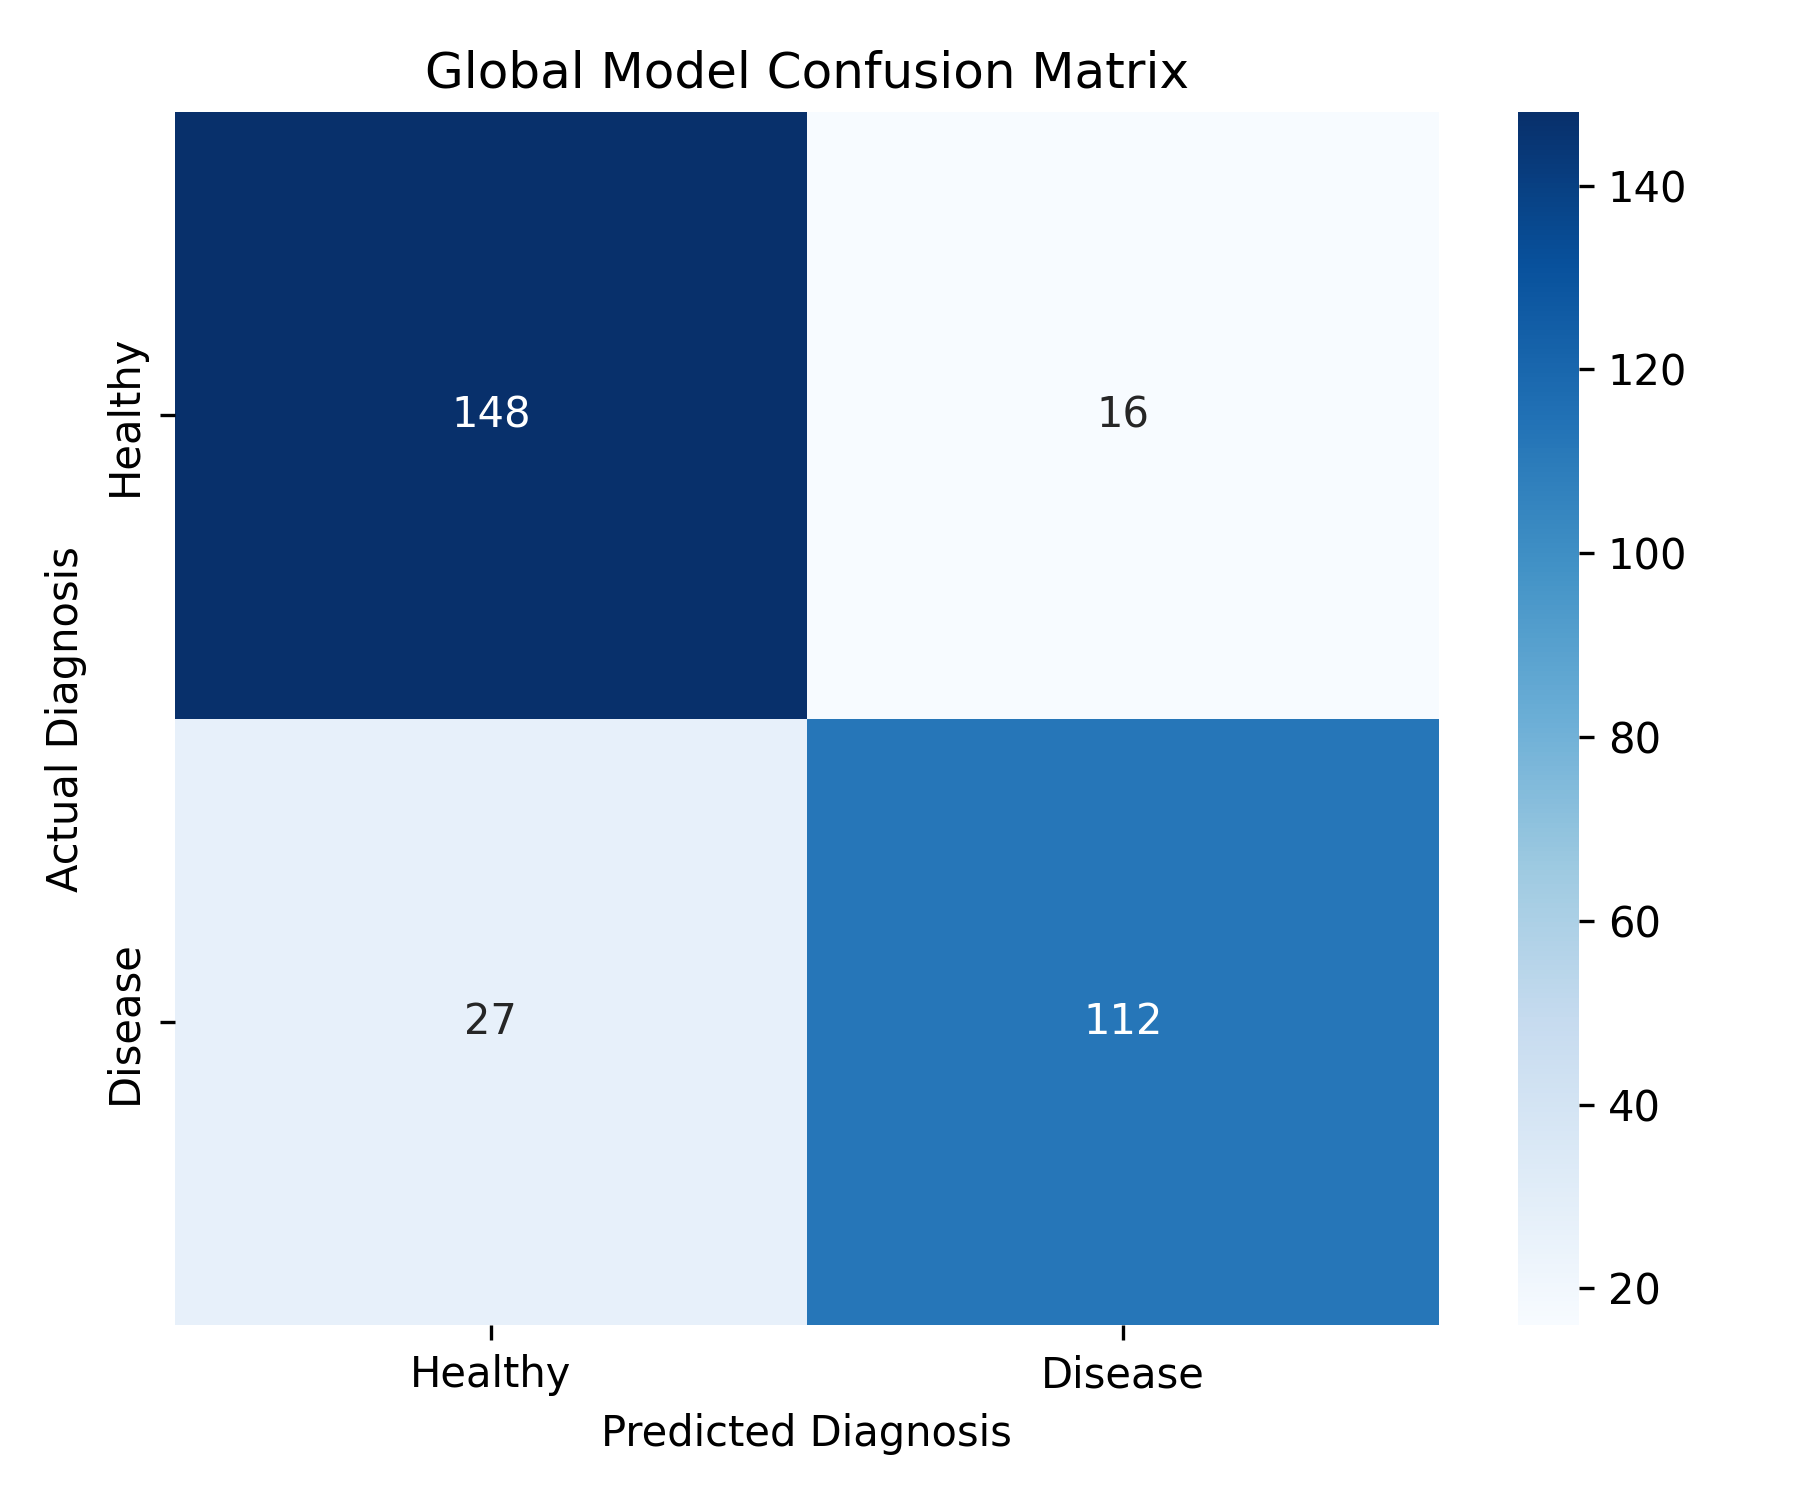
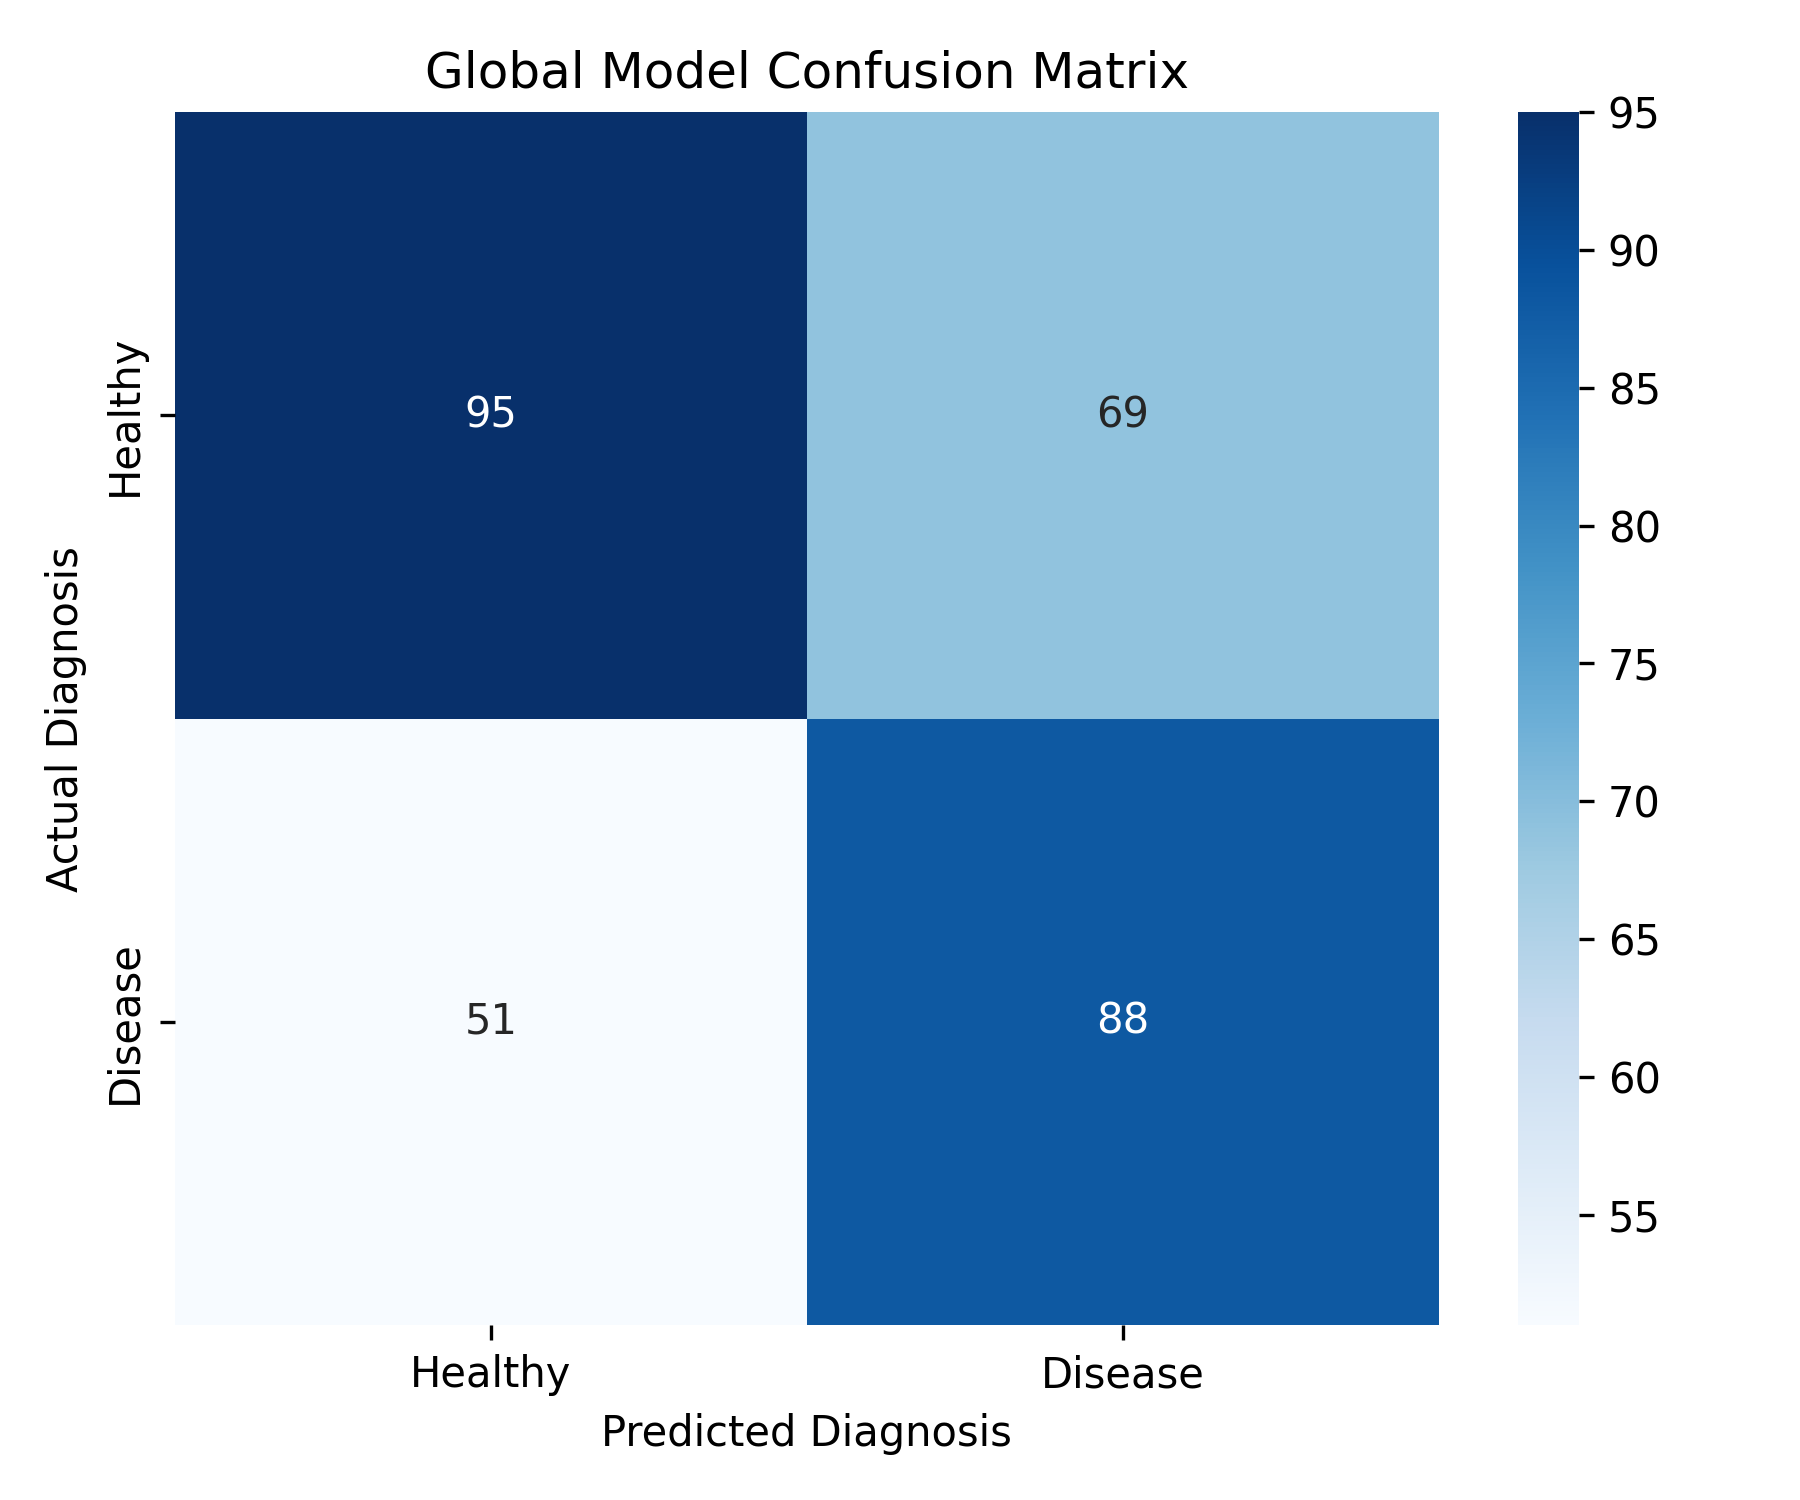
fix: differential privacy

diff --git a/task.py b/task.py
@@ -1,10 +1,15 @@
 import torch
 import torch.nn as nn
 import torch.nn.functional as F
-from sklearn.metrics import f1_score, precision_score, recall_score, confusion_matrix
+from sklearn.metrics import f1_score
+from opacus import PrivacyEngine
+import warnings
+
+# Suppress opacus warnings for clean logs
+warnings.filterwarnings("ignore")
 
 class Net(nn.Module):
-    def __init__(self, input_dim=13): # Default to 13 for Heart Disease
+    def __init__(self, input_dim=13): 
         super(Net, self).__init__()
         self.fc1 = nn.Linear(input_dim, 32)
         self.fc2 = nn.Linear(32, 16)
@@ -18,7 +23,20 @@ class Net(nn.Module):
 def train(model, trainloader, optimizer, epochs, device, mu):
     model.train()
     criterion = nn.CrossEntropyLoss()
+    
+    # --- NEW: Inject Differential Privacy ---
+    privacy_engine = PrivacyEngine()
+    model, optimizer, trainloader = privacy_engine.make_private(
+        module=model,
+        optimizer=optimizer,
+        data_loader=trainloader,
+        noise_multiplier=1.1, # The amount of "fog" we add to protect identity
+        max_grad_norm=1.0,    # Caps the max influence of one patient
+    )
+    
+    # Clone parameters for FedProx
     global_params = [p.data.clone() for p in model.parameters()]
+    
     for _ in range(epochs):
         for images, labels in trainloader:
             images, labels = images.to(device), labels.to(device)
@@ -26,6 +44,7 @@ def train(model, trainloader, optimizer, epochs, device, mu):
             output = model(images)
             loss = criterion(output, labels)
             
+            # FedProx term
             proximal_term = 0.0
             for p, g_p in zip(model.parameters(), global_params):
                 proximal_term += (p - g_p).norm(2)
@@ -33,13 +52,17 @@ def train(model, trainloader, optimizer, epochs, device, mu):
             
             loss.backward()
             optimizer.step()
+            
+    # Calculate Privacy Budget used (Epsilon)
+    # Delta is typically 1 / size of dataset
+    epsilon = privacy_engine.get_epsilon(delta=1e-3)
+    return epsilon
 
 def test(model, testloader, device):
     model.eval()
     criterion = nn.CrossEntropyLoss()
     loss = 0.0
-    all_preds = []
-    all_labels = []
+    all_preds, all_labels = [], []
     
     with torch.no_grad():
         for images, labels in testloader:
@@ -51,7 +74,6 @@ def test(model, testloader, device):
             all_preds.extend(pred.cpu().numpy())
             all_labels.extend(labels.cpu().numpy())
             
-    # Calculate Clinical Metrics
     acc = sum([p == l for p, l in zip(all_preds, all_labels)]) / len(all_labels)
     f1 = f1_score(all_labels, all_preds, zero_division=0)
     

diff --git a/data_partining.py b/data_partining.py
@@ -2,32 +2,46 @@ import pandas as pd
 import numpy as np
 import torch
 from sklearn.preprocessing import StandardScaler
-from torch.utils.data import TensorDataset, Subset
+from sklearn.impute import SimpleImputer
+from torch.utils.data import TensorDataset
 
 def partition_data(num_clients):
     url = "http://archive.ics.uci.edu/ml/machine-learning-databases/heart-disease/processed.cleveland.data"
     columns = ["age", "sex", "cp", "trestbps", "chol", "fbs", "restecg", 
                "thalach", "exang", "oldpeak", "slope", "ca", "thal", "target"]
     
-    # Load and clean
+    # 1. Load raw data but DO NOT clean or scale it globally
     df = pd.read_csv(url, names=columns, na_values="?")
-    df = df.fillna(df.mean()) 
     df['target'] = df['target'].apply(lambda x: 1 if x > 0 else 0)
     
-    X = df.drop('target', axis=1).values
-    y = df['target'].values
+    X_raw = df.drop('target', axis=1).values
+    y_raw = df['target'].values
     
-    # Standardize (Important for MLP performance)
-    scaler = StandardScaler()
-    X = scaler.fit_transform(X)
-    
-    X_tensor = torch.tensor(X, dtype=torch.float32)
-    y_tensor = torch.tensor(y, dtype=torch.long)
-    dataset = TensorDataset(X_tensor, y_tensor)
-    
-    # Split
-    indices = np.arange(len(dataset))
+    # 2. Split the RAW indices first (Simulating 5 raw hospital databases)
+    indices = np.arange(len(X_raw))
     np.random.shuffle(indices)
-    partitions = np.array_split(indices, num_clients)
+    client_indices = np.array_split(indices, num_clients)
     
-    return [Subset(dataset, idx) for idx in partitions]
+    client_datasets = []
+    
+    # 3. Flaw Fixed: Localized Imputation and Scaling
+    for idx in client_indices:
+        X_local = X_raw[idx]
+        y_local = y_raw[idx]
+        
+        # A. Local Imputation (Median is safer for medical outliers)
+        imputer = SimpleImputer(strategy='median')
+        X_local = imputer.fit_transform(X_local)
+        
+        # B. Local Scaling (Zero Data Leakage between hospitals)
+        scaler = StandardScaler()
+        X_local = scaler.fit_transform(X_local)
+        
+        # Convert to tensors
+        X_tensor = torch.tensor(X_local, dtype=torch.float32)
+        y_tensor = torch.tensor(y_local, dtype=torch.long)
+        
+        # Append the fully localized dataset
+        client_datasets.append(TensorDataset(X_tensor, y_tensor))
+        
+    return client_datasets

diff --git a/client.py b/client.py
@@ -10,7 +10,6 @@ class FlowerClient(fl.client.NumPyClient):
         self.valloader = valloader
         self.device = torch.device("cuda" if torch.cuda.is_available() else "cpu")
         self.model = Net().to(self.device)
-        self.criterion = nn.CrossEntropyLoss()
 
     def get_parameters(self, config):
         return [val.cpu().numpy() for _, val in self.model.state_dict().items()]
@@ -21,16 +20,25 @@ class FlowerClient(fl.client.NumPyClient):
         self.model.load_state_dict(state_dict, strict=True)
 
     def fit(self, parameters, config):
-        self.set_parameters(parameters)
-        optimizer = torch.optim.Adam(self.model.parameters(), lr=0.001)
-        # mu=0.01 for FedProx
-        train(self.model, self.trainloader, optimizer, epochs=5, device=self.device, mu=0.01)
-        return self.get_parameters(config={}), len(self.trainloader.dataset), {}
+        # We create a fresh model so Opacus doesn't double-wrap it across rounds
+        local_model = Net().to(self.device)
+        params_dict = zip(local_model.state_dict().keys(), parameters)
+        state_dict = OrderedDict({k: torch.tensor(v) for k, v in params_dict})
+        local_model.load_state_dict(state_dict, strict=True)
+        
+        optimizer = torch.optim.Adam(local_model.parameters(), lr=0.001)
+        
+        # Train with DP and get the epsilon budget
+        epsilon = train(local_model, self.trainloader, optimizer, epochs=5, device=self.device, mu=0.01)
+        print(f"🔒 [Hospital Client] Privacy Budget Used: ε = {epsilon:.2f}")
+        
+        # Safely unwrap the Opacus model to get the parameters back
+        wrapped_state_dict = local_model._module.state_dict() if hasattr(local_model, '_module') else local_model.state_dict()
+        new_parameters = [val.cpu().numpy() for _, val in wrapped_state_dict.items()]
+        
+        return new_parameters, len(self.trainloader.dataset), {}
 
     def evaluate(self, parameters, config):
         self.set_parameters(parameters)
-        # FIX: We now unpack THREE values (loss, accuracy, f1)
         loss, accuracy, f1 = test(self.model, self.valloader, device=self.device)
-        
-        # FIX: We return the F1 score in the metrics dictionary
         return float(loss), len(self.valloader.dataset), {"accuracy": float(accuracy), "f1_score": float(f1)}
